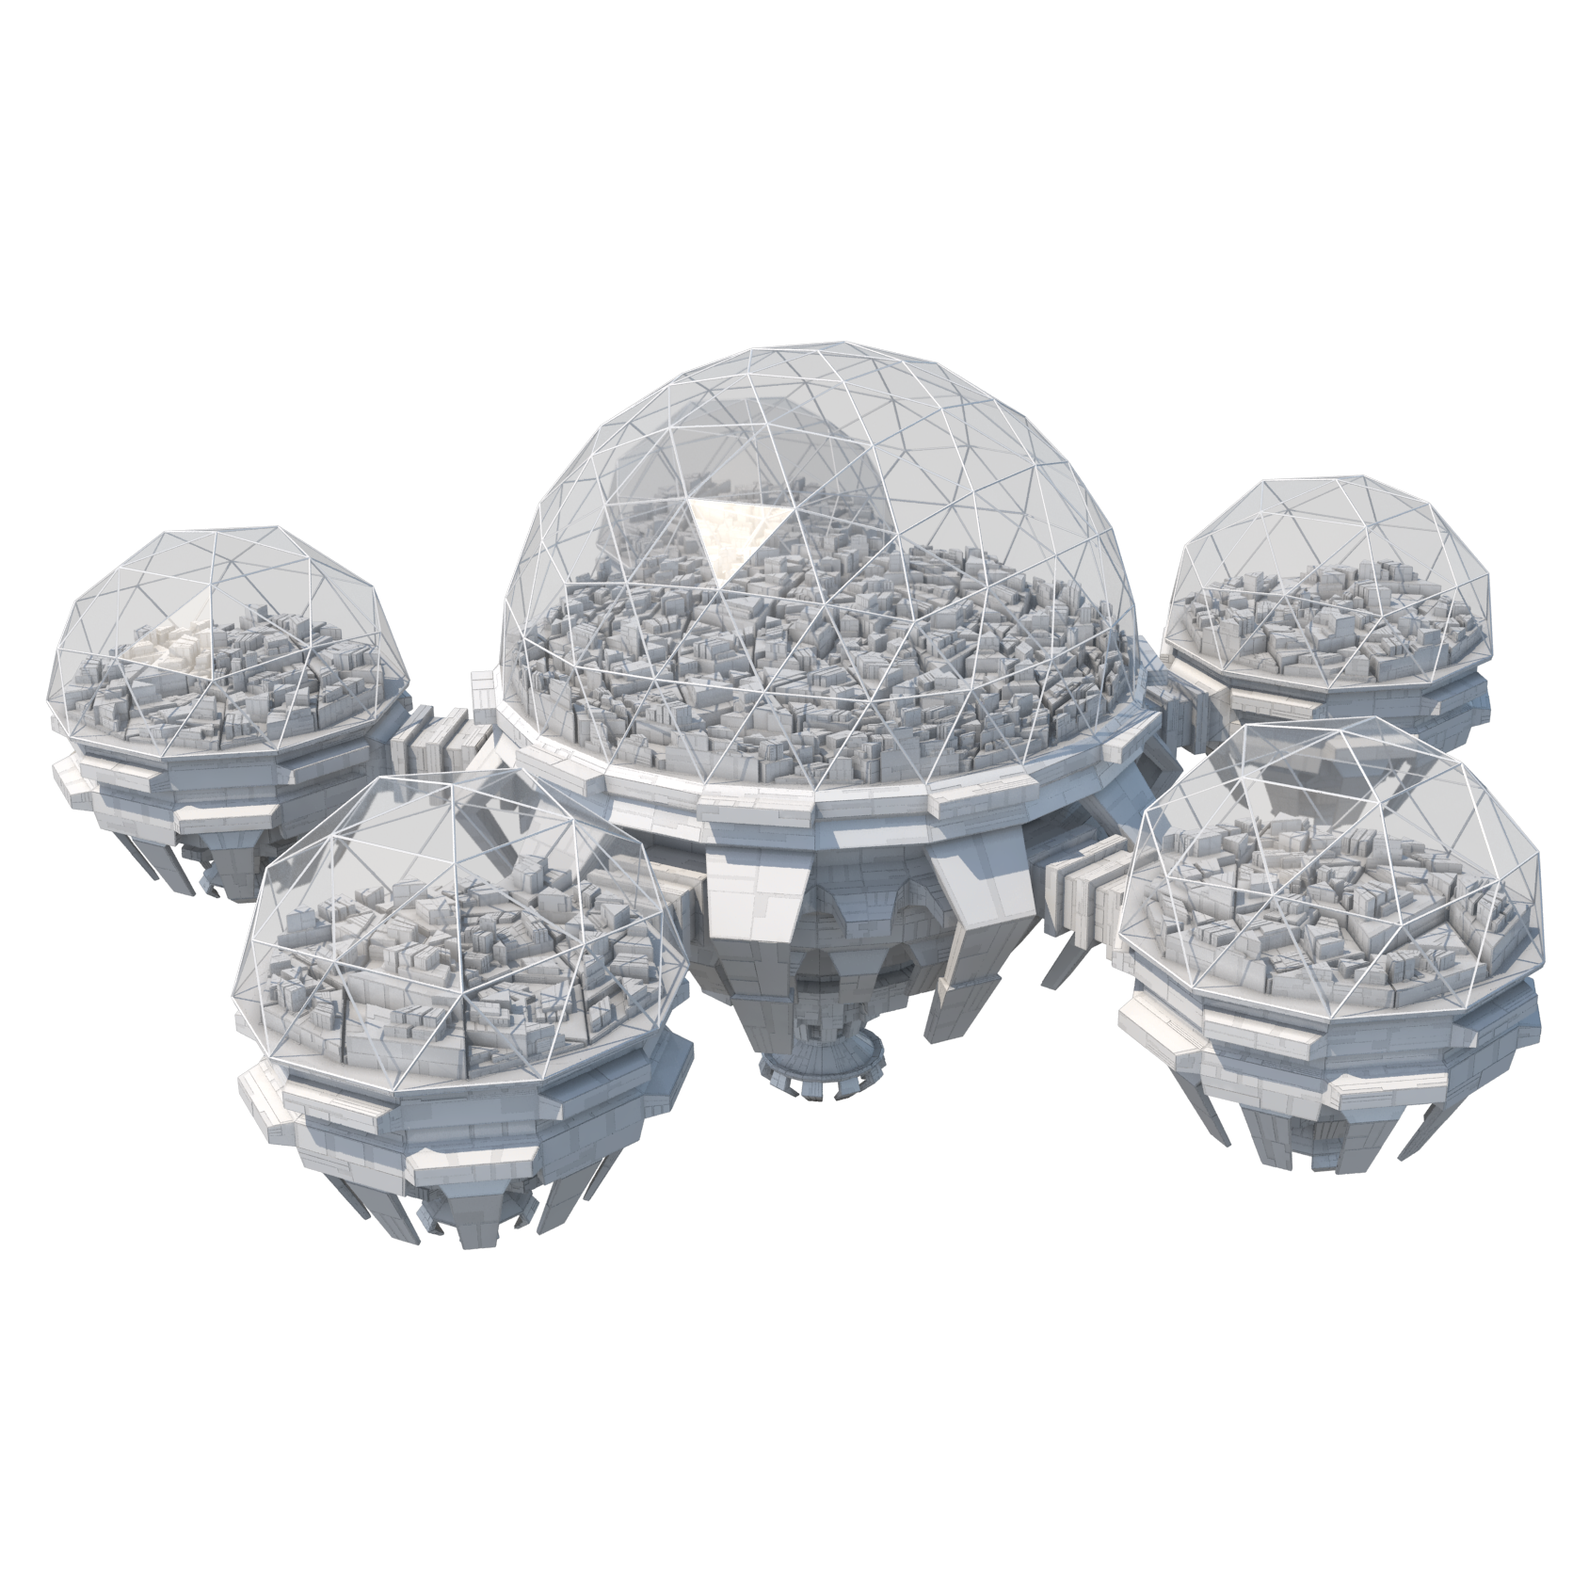
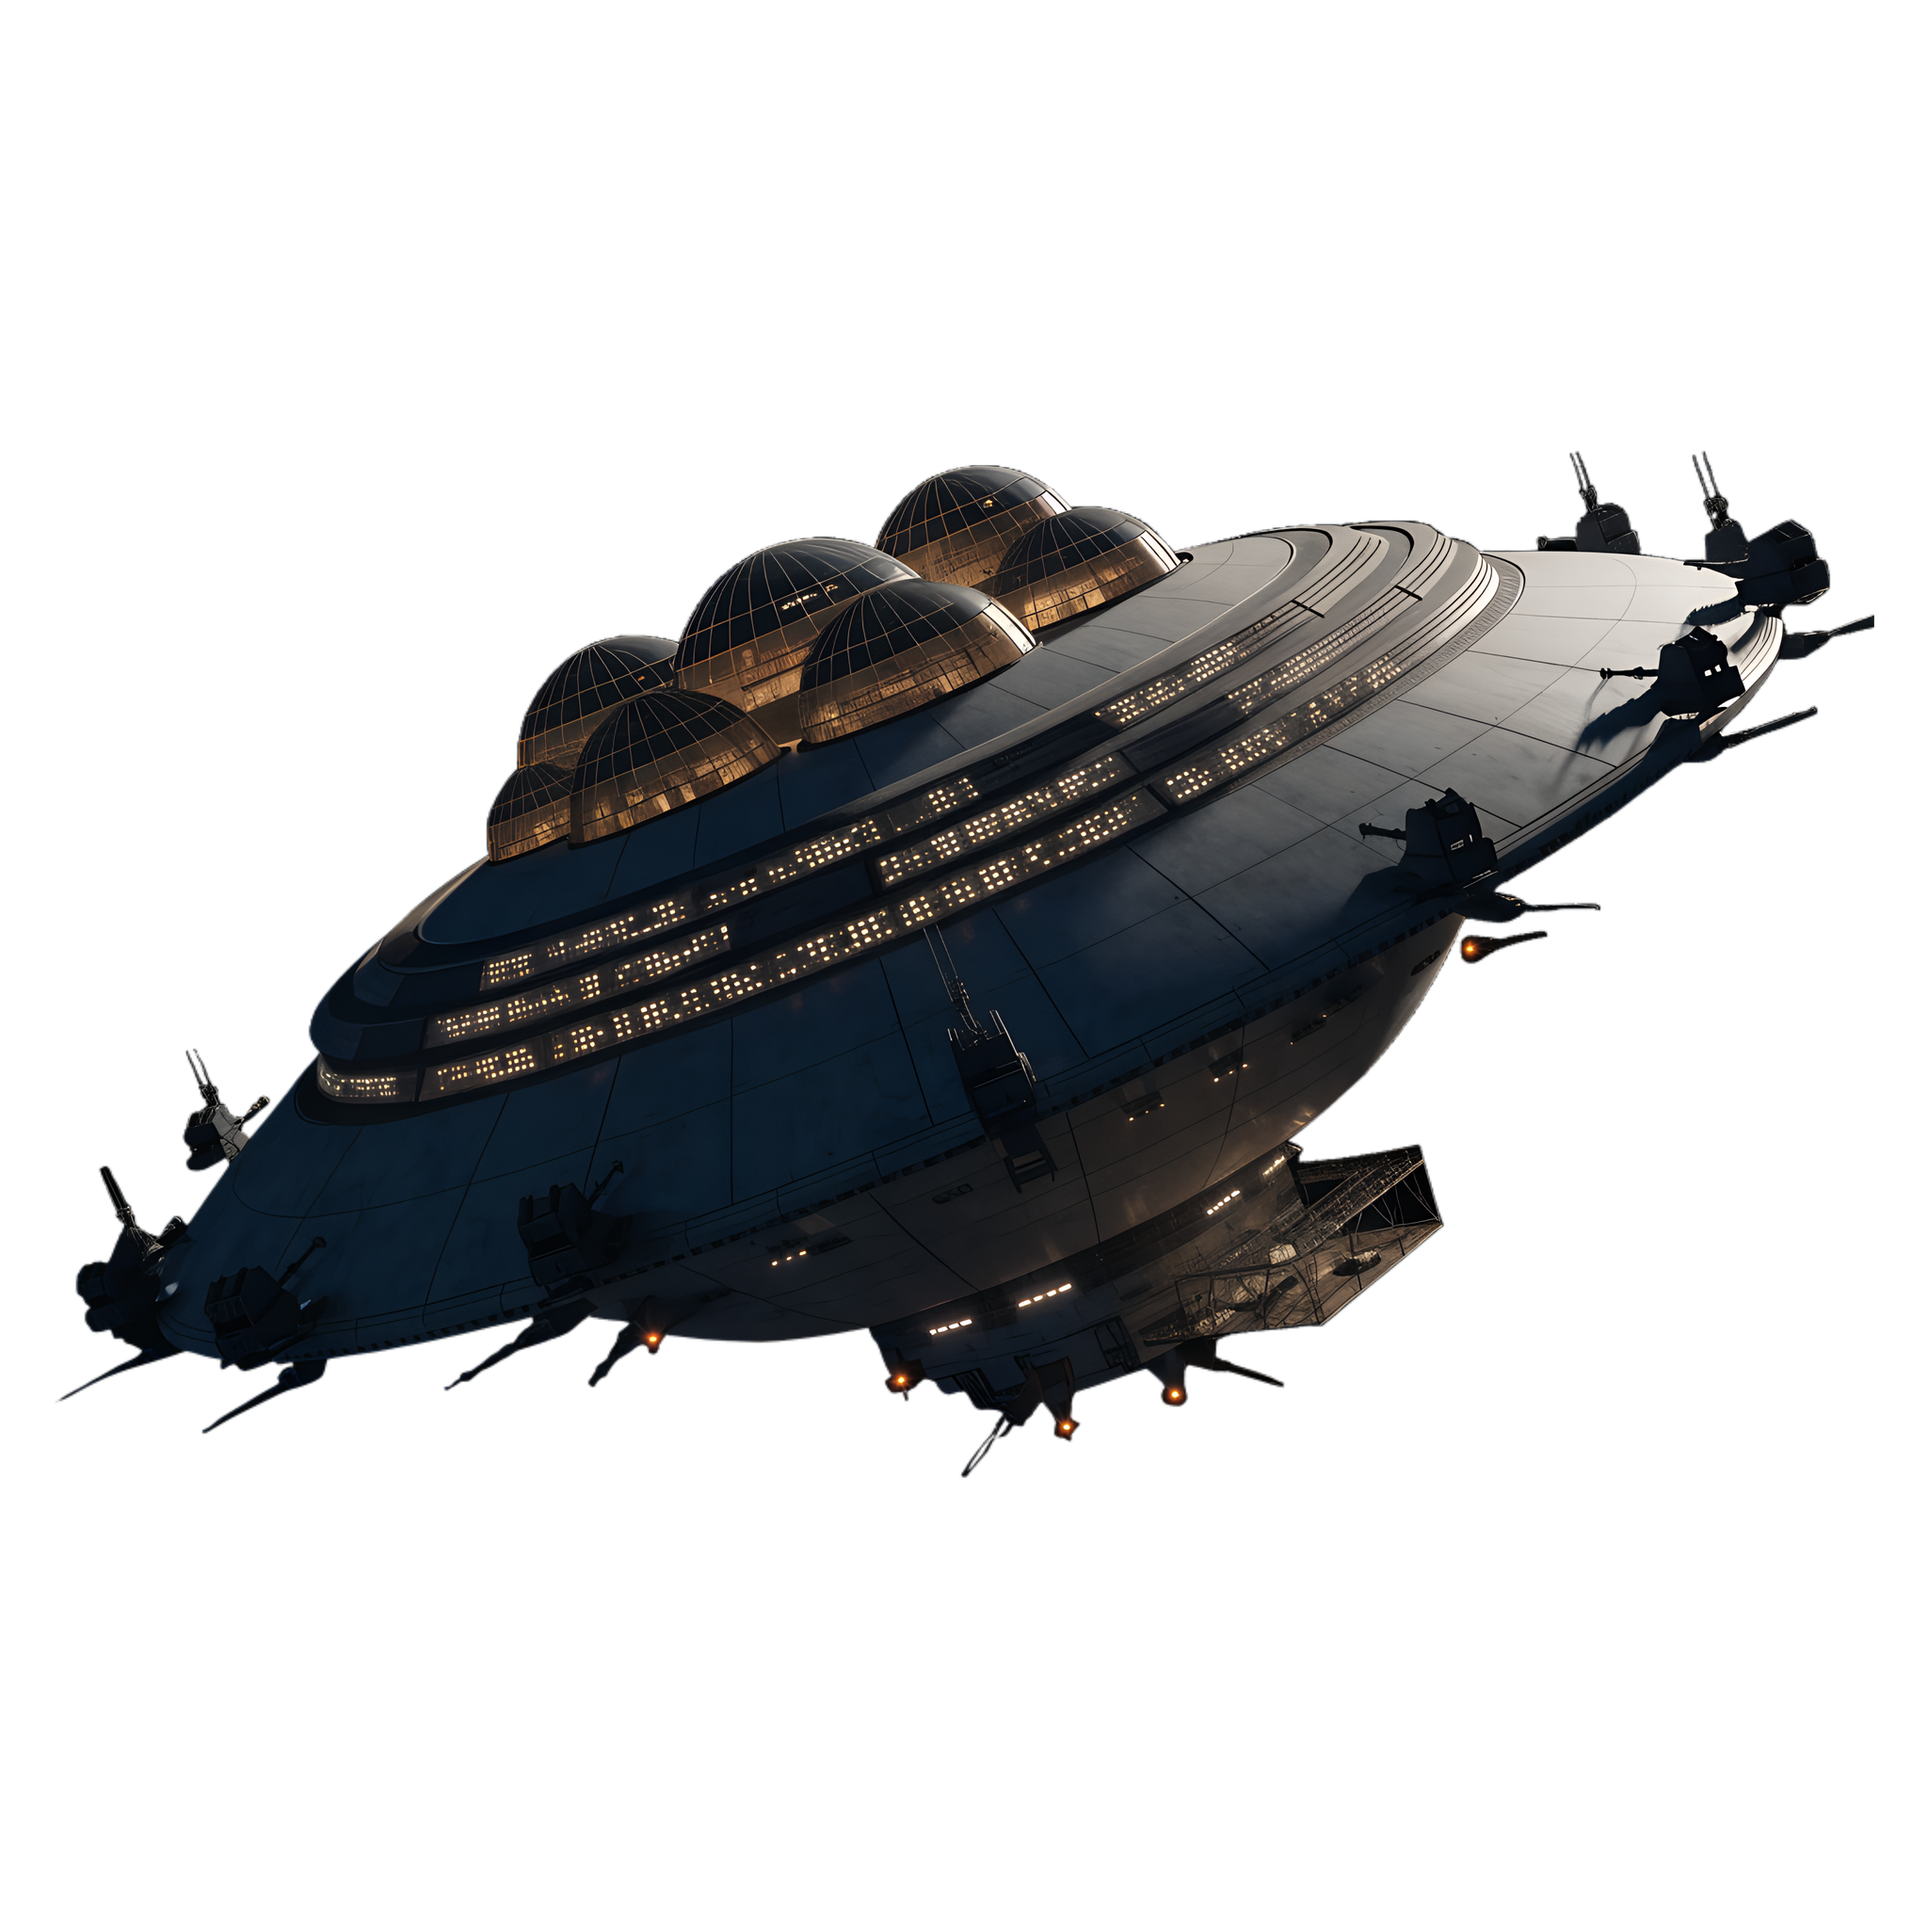
feat(assets): first AI-generated art batch (Recraft, realism style)
Five sprites intaken via tools/import_body_sprite.py: asteroid field
and derelict wreck (new sprite kinds — schema, catalog, and SystemView
gain direct body-kind coverage, replacing the last gray primitives),
a desert planet claiming the desert biome from the tinted barren
sprite, and new port/starbase renders replacing the two unknown-license
pack stations (two license blockers cleared; provenance and Recraft
free-tier terms recorded in SOURCES.md). Intake tool learned the new
kinds and now zeroes near-transparent noise (alpha <= 4), not just
exact zero.

diff --git a/tools/import_body_sprite.py b/tools/import_body_sprite.py
@@ -30,7 +30,11 @@ except ImportError:  # pragma: no cover
     sys.exit(1)
 
 REPO_ROOT = Path(__file__).resolve().parent.parent
-KIND_DIRS = {"planet": "planets", "sun": "suns", "station": "stations"}
+KIND_DIRS = {
+    "planet": "planets", "sun": "suns", "station": "stations",
+    "asteroids": "asteroids", "derelict": "derelicts",
+}
+# Kinds missing here (asteroids, derelict) cover their body kind directly.
 KIND_COVERAGE_FIELD = {
     "planet": ("biomes", ["earthlike"]),
     "sun": ("star_types", ["yellow"]),
@@ -55,7 +59,9 @@ def content_square(image: Image.Image, pad: float) -> np.ndarray:
     canvas[sy0 - (cy - half):sy1 - (cy - half), sx0 - (cx - half):sx1 - (cx - half)] = (
         pixels[sy0:sy1, sx0:sx1]
     )
-    canvas[canvas[:, :, 3] == 0] = 0
+    # <=4 catches generator noise floors, not just exact zero; white RGB in
+    # transparent pixels bleeds gray fringes through mipmapping.
+    canvas[canvas[:, :, 3] <= 4] = 0
     return canvas
 
 
@@ -85,15 +91,16 @@ def main() -> int:
     }
     (target_dir / "sheet.json").write_text(json.dumps(sheet) + "\n", encoding="utf-8")
 
-    field, example = KIND_COVERAGE_FIELD[args.kind]
     stub = {
         "id": args.sprite_id,
         "kind": args.kind,
         "sprite_dir": f"res://assets/bodies/{KIND_DIRS[args.kind]}/{args.sprite_id}",
-        "spin_speed": 0.02 if args.kind != "station" else 0.0,
+        "spin_speed": 0.02 if args.kind in ("planet", "sun") else 0.0,
         "tint_mix": 0.3,
-        field: example,
     }
+    if args.kind in KIND_COVERAGE_FIELD:
+        field, example = KIND_COVERAGE_FIELD[args.kind]
+        stub[field] = example
     rel = target_dir.relative_to(REPO_ROOT)
     print(f"wrote {rel}/sheet.png ({image.width}px) + sheet.json")
     print(f"\nnext steps:")

diff --git a/assets/bodies/SOURCES.md b/assets/bodies/SOURCES.md
@@ -8,8 +8,16 @@ naming rules in `assets/README.md`.
 | `planets/planet_terran/sheet.png` | `Planet.H03.2k.png` | unknown pack, user-provided | unknown — confirm before any exported build ships it |
 | `planets/planet_barren/sheet.png` | `Mercury Planet.H03.2k.png` | unknown pack, user-provided | unknown — confirm before any exported build ships it |
 | `suns/sun_giant/sheet.png` | `Sun 05 Yellow Star Giant.E03.2k.png` | unknown pack, user-provided | unknown — confirm before any exported build ships it |
-| `stations/station_port/sheet.png` | `Futuristic Sci Fi Space Station.G03.2k.png` | unknown pack, user-provided | unknown — confirm before any exported build ships it |
-| `stations/station_starbase/sheet.png` | `White Space Station.G03.2k.png` | unknown pack, user-provided | unknown — confirm before any exported build ships it |
+| `stations/station_port/sheet.png` | `space-station.png` (dump/gen) | AI-generated, Recraft, 2026-09-09; port prompt from `ART_WORKFLOW.md` batch | Recraft free tier — confirm commercial terms before an exported build ships it |
+| `stations/station_starbase/sheet.png` | `star-station.png` (dump/gen) | AI-generated, Recraft, 2026-09-09; starbase prompt from `ART_WORKFLOW.md` batch | Recraft free tier — confirm commercial terms before an exported build ships it |
+| `asteroids/asteroid_field/sheet.png` | `asteroid-2.png` (dump/gen; `asteroid-1` unused variant) | AI-generated, Recraft, 2026-09-09; asteroid prompt from `ART_WORKFLOW.md` batch | Recraft free tier — confirm commercial terms |
+| `derelicts/derelict_wreck/sheet.png` | `derelict-1.png` (dump/gen; `derelict-2` unused variant) | AI-generated, Recraft, 2026-09-09; derelict prompt from `ART_WORKFLOW.md` batch | Recraft free tier — confirm commercial terms |
+| `planets/planet_desert/sheet.png` | `desert-planet.png` (dump/gen) | AI-generated, Recraft, 2026-09-09; desert planet prompt from `ART_WORKFLOW.md` batch | Recraft free tier — confirm commercial terms |
+
+Replaced at 2026-09-09: the original `station_port`/`station_starbase`
+renders (`Futuristic Sci Fi Space Station.G03.2k.png`, `White Space
+Station.G03.2k.png`, unknown pack, unknown license) were superseded by
+the Recraft generations above — two unknown-license blockers cleared.
 
 All are single-angle renders stored as 1-frame sheets. The Bodies
 pipeline's N-angle rotation sheets still need the original 3D sources

diff --git a/assets/ART_WORKFLOW.md b/assets/ART_WORKFLOW.md
@@ -72,9 +72,10 @@ by type — get it wrong and the sprite cannot sit in the world.
 | Asteroid field / derelict | 3/4 view from ~30° above | "A loose cluster of asteroids" / "a wrecked derelict freighter hull" | Currently primitive fallbacks — first place new art pays off. Needs a small `SystemBody`-kind sprite hookup (ask Claude). |
 | Ship | — | — | Ships are 3D GLB models, not sprites (`README.md` Ships pipeline). AI image tools do not help here; triage the existing pack at M2. |
 
-Wanted list (in rough value order): asteroids field, derelict, lava
-planet, ringed gas giant, ice planet, red dwarf sun variant, blue giant
-sun variant, faction station variants (M5).
+Wanted list (in rough value order): lava planet, ringed gas giant, ice
+planet, red dwarf sun variant, blue giant sun variant, faction station
+variants (M5). Done 2026-09-09 (Recraft): asteroid field, derelict,
+desert planet, port, starbase.
 
 ## 4. Intake
 
